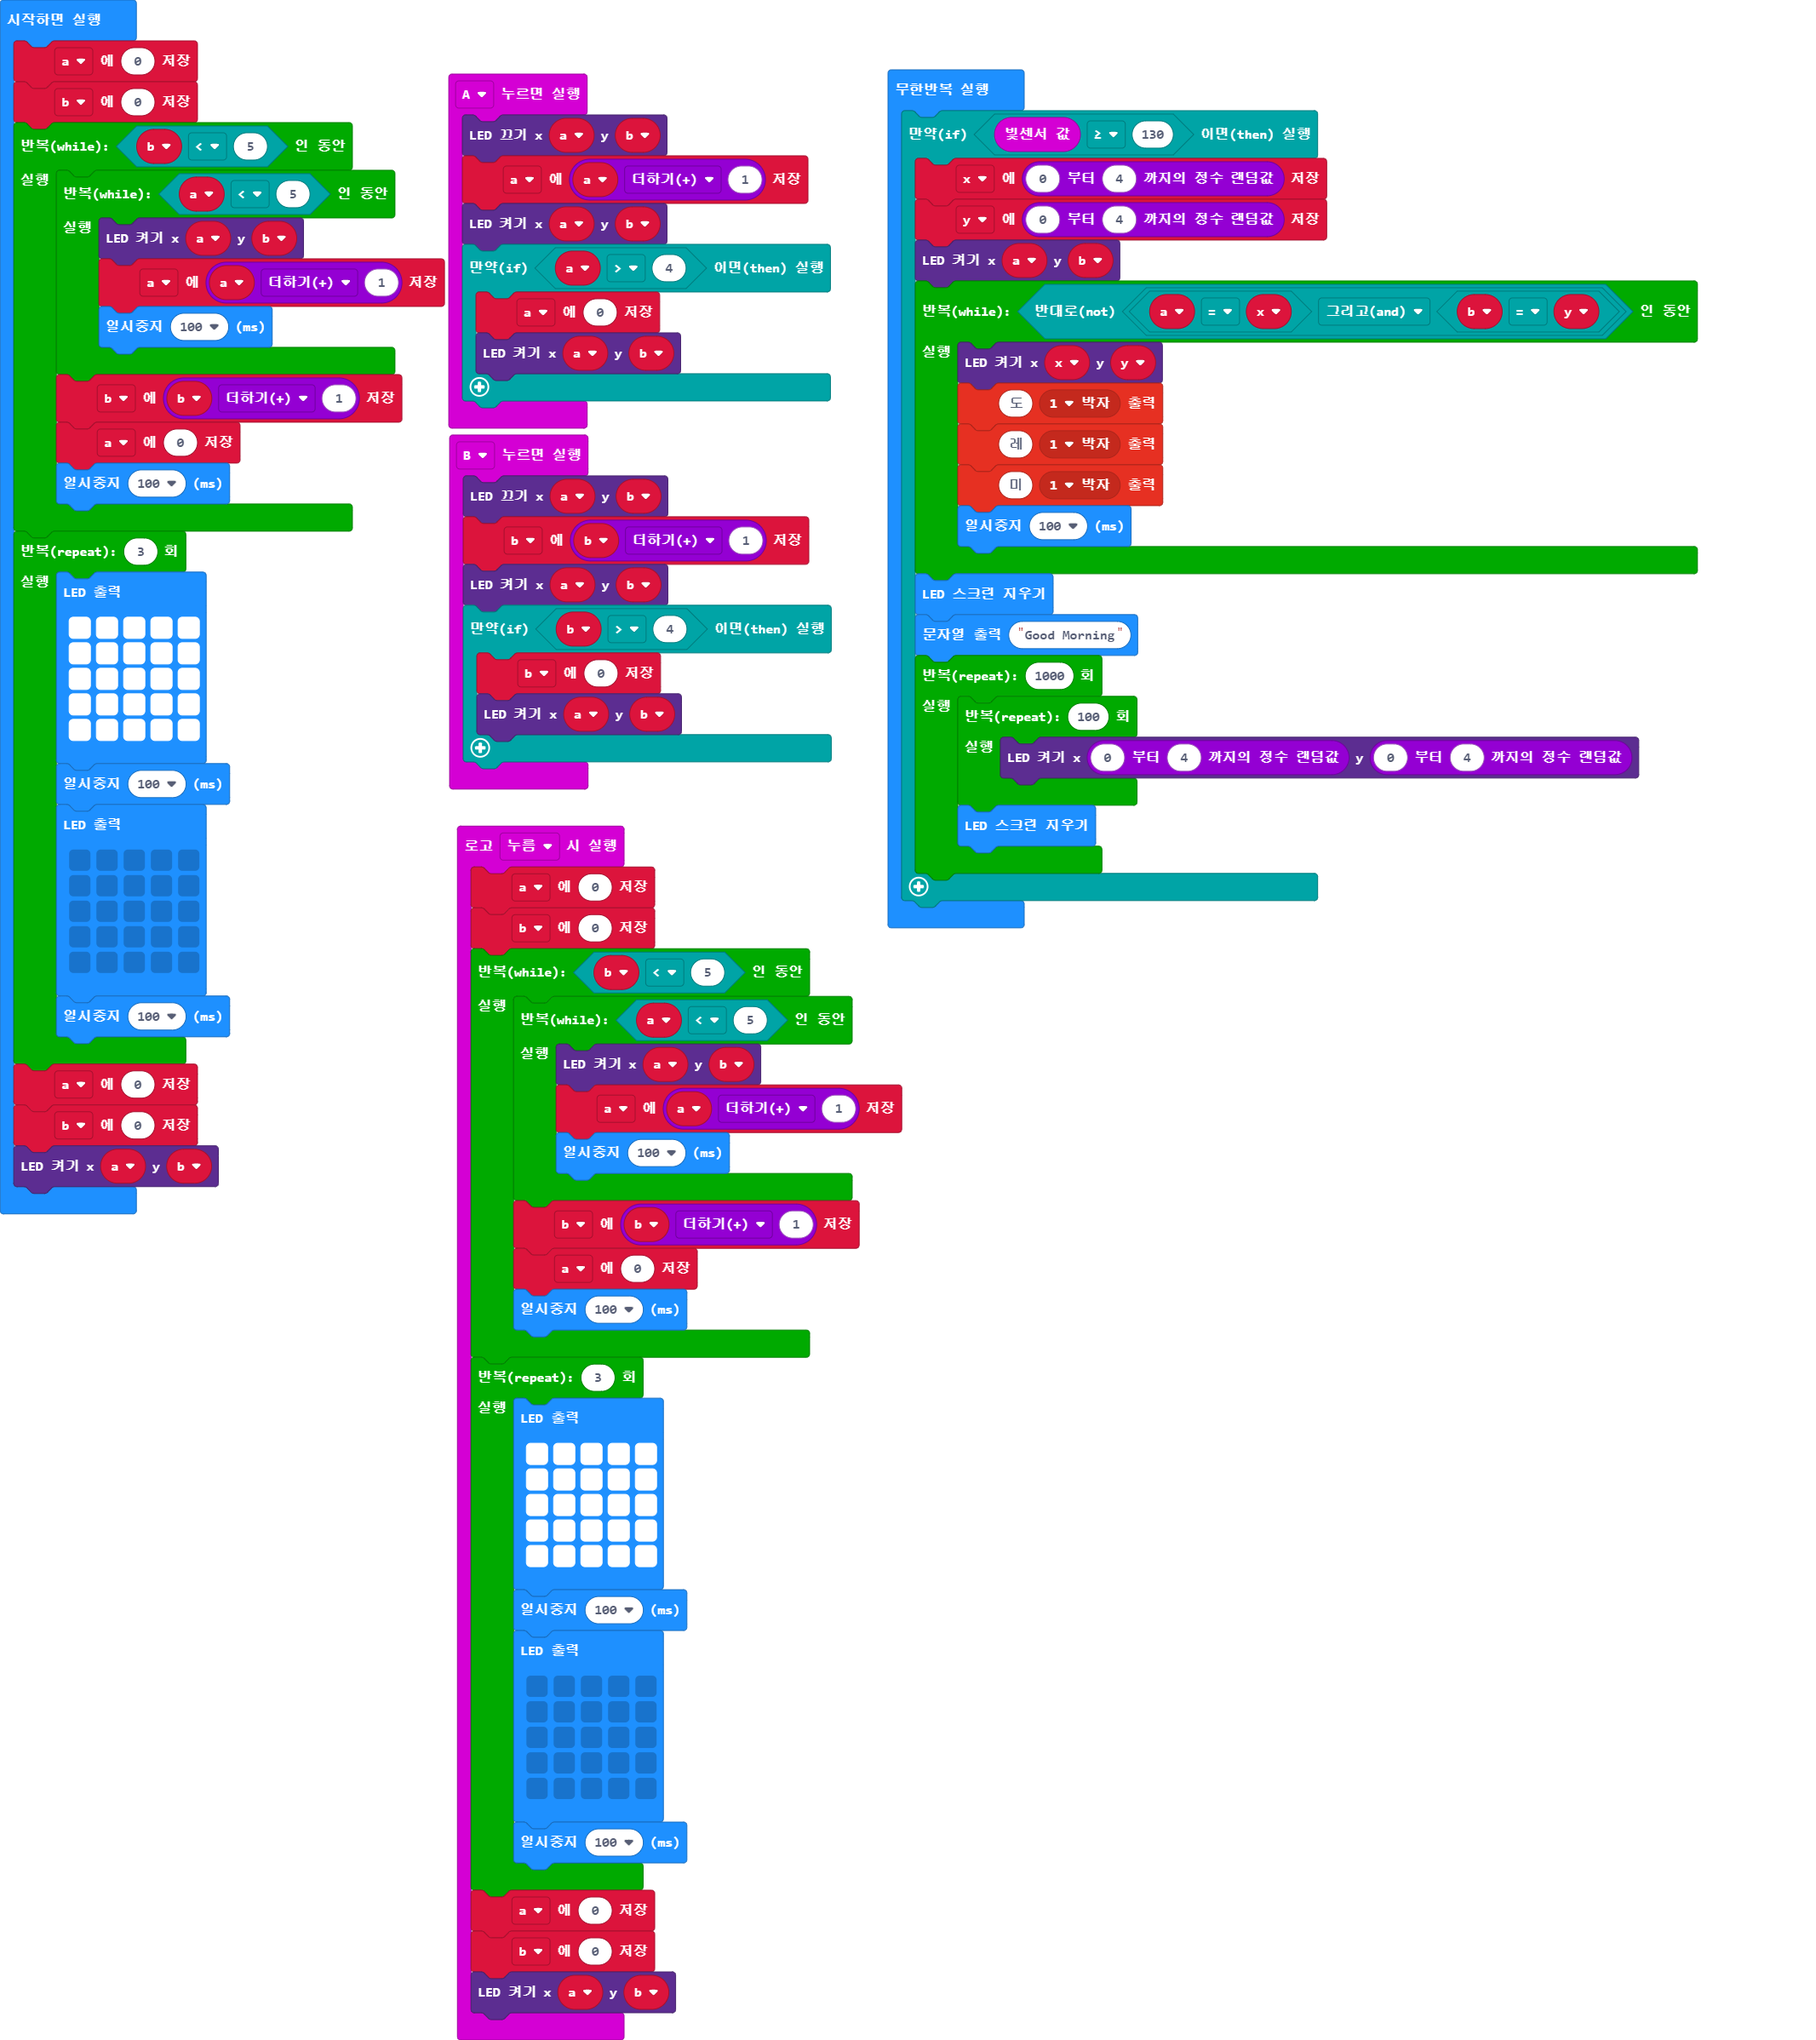
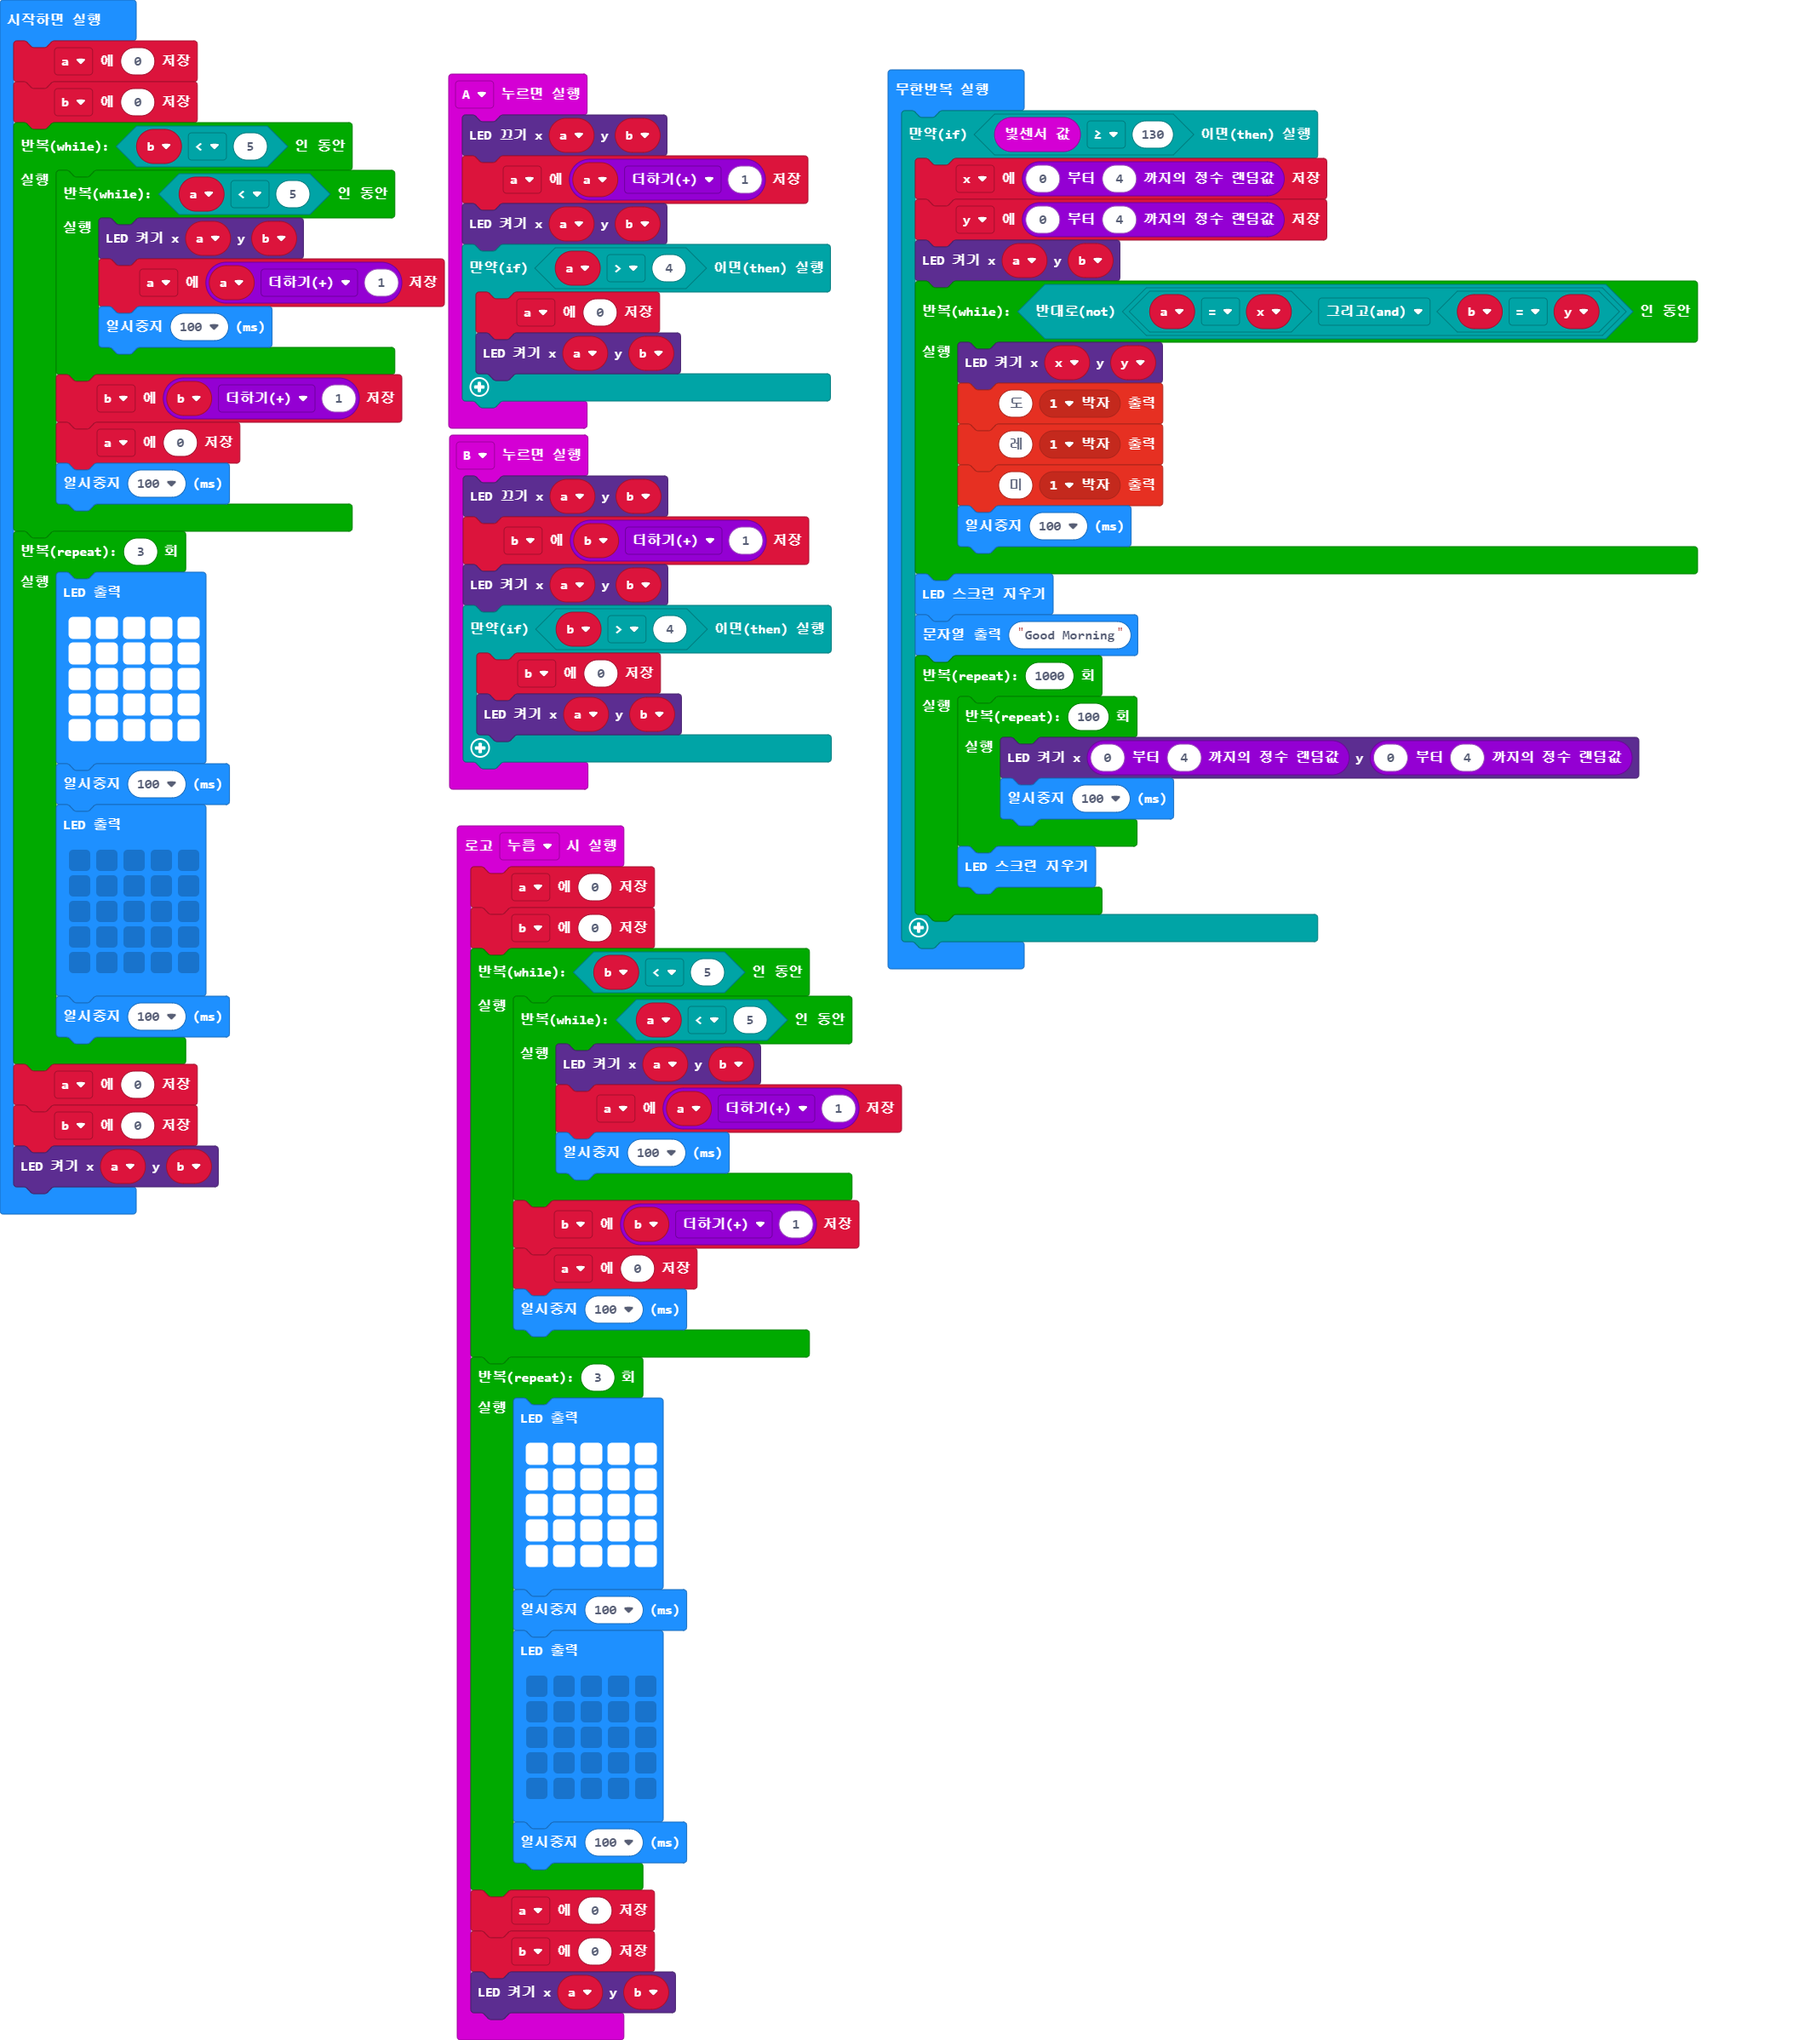
main.blocks, main.ts 업데이트하기

Changed region(s): [[0.4951, 0.3706, 0.7426, 0.4942]]

diff --git a/main.ts b/main.ts
@@ -105,6 +105,7 @@ basic.forever(function () {
         for (let index = 0; index < 1000; index++) {
             for (let index = 0; index < 100; index++) {
                 led.plot(randint(0, 4), randint(0, 4))
+                basic.pause(100)
             }
             basic.clearScreen()
         }
